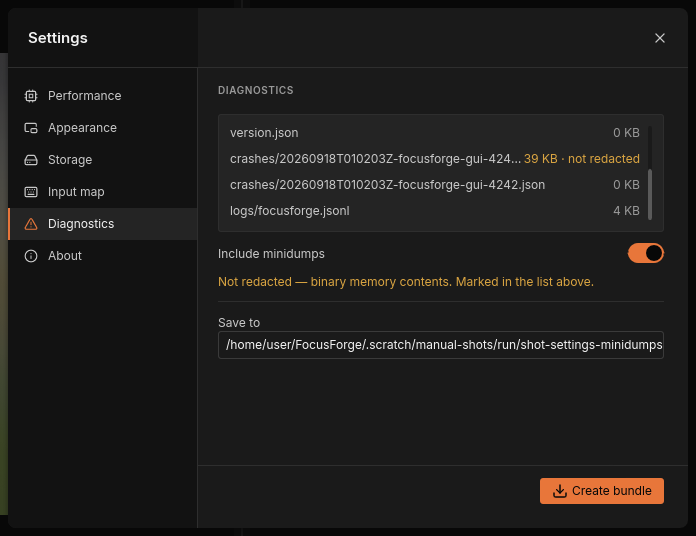
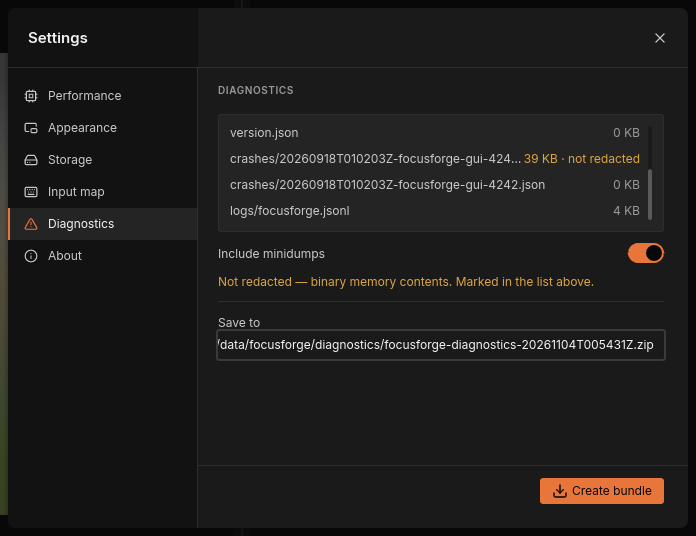
docs(manual): work in progress on the settings window and failure images

Changed region(s): [[0.3017, 0.597, 0.9655, 0.6866]]

diff --git a/tools/manual-examples.py b/tools/manual-examples.py
@@ -358,11 +358,13 @@ class Runner:
             raise SystemExit(f"focusforge-cli {args[0]} exited {result.returncode}")
         return result.stdout
 
-    def fuse(self, name: str, frames: list[tuple[int, int, int]], size: tuple[int, int], *flags: str) -> Fused:
+    def fuse(
+        self, name: str, frames: list[tuple[int, int, int]], size: tuple[int, int], *flags: str, source: str = FRAMES
+    ) -> Fused:
         """Cut `frames` into a fresh stack directory and fuse it.
 
-        Each frame is (fixture index, x, y): a `size` read starting at (x, y)
-        of `fixtures/mantis-512/frames/NN.tif`. Files keep the fixture's
+        Each frame is (index, x, y): a `size` read starting at (x, y) of
+        `<source>/NN.tif`, by default the fixture frames. Files keep that
         number, so a thinned stack still names its frames by focus position.
         A name already fused in this run is reused.
         """
@@ -376,9 +378,9 @@ class Runner:
         os.makedirs(out_dir)
         w, h = size
         for index, x, y in frames:
-            source = os.path.join(FRAMES, f"{index:02d}.tif")
-            info = rawtiff.read_info(source)
-            pixels = rawtiff.read_rect(source, x, y, w, h, info)
+            path = os.path.join(source, f"{index:02d}.tif")
+            info = rawtiff.read_info(path)
+            pixels = rawtiff.read_rect(path, x, y, w, h, info)
             rawtiff.write_tiff(os.path.join(stack_dir, "frames", f"{index:02d}.tif"), w, h, pixels)
         report = json.loads(
             self.run("stack", stack_dir, "-o", out_dir, "--cpu", "--no-cache", "--no-progress", "--json", *flags)
@@ -389,7 +391,12 @@ class Runner:
         crop = report.get("crop") or {"x": 0, "y": 0}
         fused = Fused(os.path.join(out_dir, projects[0]), crop["x"], crop["y"])
         self.fused[name] = fused
-        print(f"  fused {name}: {len(frames)} frames, crop at {crop['x']},{crop['y']}")
+        align = report.get("align") or {}
+        fallback = [a["name"] for a in align.get("alignments", []) if a.get("fallback")]
+        print(
+            f"  fused {name}: {len(frames)} frames, crop at {crop['x']},{crop['y']}"
+            + (f", not registered: {' '.join(fallback)}" if fallback else "")
+        )
         return fused
 
     def composite(self, fused: Fused, project: str | None = None) -> Image:
@@ -398,11 +405,15 @@ class Runner:
         self.run("export", project, "-o", path, "--exif", "off", "--icc", "off")
         return read_tiff8(path)
 
-    def frame(self, fused: Fused, position: int) -> Image:
-        """Source frame `position` (0-based, in the stack's order) as fused."""
-        path = fused.project[:-4] + f"-frame{position:02d}.tif"
+    def frame_tiff(self, fused: Fused, position: int, path: str | None = None) -> str:
+        """Writes source frame `position` (0-based, in the stack's order) as
+        fused: warped and cropped to the composite. Returns the TIFF's path."""
+        path = path or fused.project[:-4] + f"-frame{position:02d}.tif"
         self.run("export", fused.project, "--frame", str(position), "--frame-output", path)
-        return read_tiff8(path)
+        return path
+
+    def frame(self, fused: Fused, position: int) -> Image:
+        return read_tiff8(self.frame_tiff(fused, position))
 
     def zmap(self, fused: Fused) -> tuple[int, int, list[int]]:
         path = fused.project[:-4] + "-zmap.tif"
@@ -455,6 +466,7 @@ GREY = (205, 205, 205)
 
 ALL_FRAMES = [(i, 0, 0) for i in range(8)]
 FULL = (512, 512)
+MOVE_X, MOVE_Y = 20, 12
 DETAILS = ("--algorithm", "laplacian")
 
 
@@ -501,16 +513,35 @@ def halos(r: Runner, emit) -> None:
 
 
 def motion(r: Runner, emit) -> None:
-    # Simulated camera movement: frames 03-07 are read 12 px right and 8 px down
-    # of frames 00-02, so their content sits 12 px left and 8 px up. Fused once
-    # with alignment off (the movement shows) and once with the default
-    # alignment (it is corrected). Window in frame 03's pixels.
-    shifted = [(i, 16, 16) for i in range(3)] + [(i, 28, 24) for i in range(3, 8)]
-    size = (480, 480)
-    unaligned = r.fuse("motion-unaligned", shifted, size, *DETAILS, "--no-align")
-    aligned = r.fuse("motion-aligned", shifted, size, *DETAILS)
-    window = (120, 90, 256, 256)
-    panels = [r.composite(f).crop(*in_reference(f, *window)) for f in (unaligned, aligned)]
+    # Simulated camera movement between frames 02 and 03: frames 03-07 are
+    # read MOVE_X px right and MOVE_Y px down of frames 00-02, so their
+    # content sits that far left and up.
+    #
+    # Left panel: the movement alone. The frames are first lined up by the
+    # default stack (exported with `--frame`), then moved, then fused with
+    # alignment off.
+    # Right panel: the same movement on the fixture frames, fused with
+    # alignment on in its translation-only mode. (In its default
+    # rotation-and-scale mode the solver does not register frame 02 onto
+    # frame 03 in this small, mostly featureless window and falls back to
+    # identity.)
+    #
+    # The window is given in the default stack's composite pixels and mapped
+    # into each result through the reads above, so both panels show one scene.
+    base = r.fuse("all-details", ALL_FRAMES, FULL, *DETAILS)
+    lined_up = os.path.join(r.work, "motion-lined-up")
+    os.makedirs(lined_up, exist_ok=True)
+    for i in range(8):
+        r.frame_tiff(base, i, os.path.join(lined_up, f"{i:02d}.tif"))
+    moved = [(i, 2, 2) for i in range(3)] + [(i, 2 + MOVE_X, 2 + MOVE_Y) for i in range(3, 8)]
+    simulated = r.fuse("motion-unaligned", moved, (336, 336), *DETAILS, "--no-align", source=lined_up)
+    moved = [(i, 4, 4) for i in range(3)] + [(i, 4 + MOVE_X, 4 + MOVE_Y) for i in range(3, 8)]
+    realigned = r.fuse("motion-aligned", moved, (480, 480), *DETAILS, "--align-set", "mode=translation")
+    x, y, w, h = 55, 20, 240, 240
+    # Frame 03's pixel (x, y) of the lined-up frames, in each stack's reference.
+    left = in_reference(simulated, x - 2 - MOVE_X, y - 2 - MOVE_Y, w, h)
+    right = in_reference(realigned, x + base.crop_x - 4 - MOVE_X, y + base.crop_y - 4 - MOVE_Y, w, h)
+    panels = [r.composite(simulated).crop(*left), r.composite(realigned).crop(*right)]
     emit("failure-images/motion.jpg", side_by_side(panels))
 
 

diff --git a/docs/stacking/failure-images.md b/docs/stacking/failure-images.md
@@ -22,7 +22,16 @@ order, taken from a series of a praying mantis's head. The
 
 ## Halos at depth edges
 
-HALO_IMAGE
+![Three crops of the same window side by side: an antenna against a dark grey background, above the pale rim of the mantis's head. Left: clean edges. Middle: a dark band along the rim of the head and a softer antenna. Right: dark blotches beside the antenna and along the rim, and patches in the smooth areas.](../assets/manual/failure-images/halo-methods.jpg)
+
+*The same eight frames fused with default settings by each method. Left: Details. Middle: Soft transitions, with a dark band along the rim. Right: Focus map, with dark blotches beside the antenna and the rim.*
+
+A second, quieter form of the same problem sits where the antenna, close to
+the camera, crosses the rim of the head, further back:
+
+![Two enlarged crops side by side of the antenna crossing the rim of the head. Left: the rim runs across the antenna as a sharp line, and the antenna there is soft, with a pale glow beside it. Right: the antenna continues unbroken in front of the rim.](../assets/manual/failure-images/halo-retouch.jpg)
+
+*Enlarged 2×. Left: the Details composite, where the sharp rim from frame 03 wins over the antenna in front of it. Right: the same composite after one brush stroke from frame 02 along the antenna.*
 
 ### What you see
 
@@ -41,9 +50,20 @@ edge there is therefore no frame in which the background is both sharp and
 free of the foreground's blur. The fusion method has to choose between
 blurred versions, and a broad, soft edge can score as "detail" too.
 
-The methods handle this differently. A method that picks one frame per area
-keeps the strip next to the edge from a single frame; a method that blends
-mixes the soft spread of several frames into it.
+The fusion methods handle this differently, as the first example shows.
+**Details** works scale by scale and kept the cleanest edges here.
+**Soft transitions** blends every frame at every pixel, so the soft spread
+of the out-of-focus frames is mixed into the strip beside the edge: here a
+dark band along the rim. **Focus map** picks one frame per area from a
+smoothed sharpness map; next to the edges, and in smooth areas where no frame
+has real detail, it switched between frames whose blur differs in brightness,
+which leaves dark blotches and patches.
+
+The second example is the same conflict the other way round. Where the
+antenna, close to the camera, crosses the rim of the head, the rim is the
+crisper of the two, and its sharp line wins even where the antenna should
+cover it. The near object then looks transparent, with the far edge drawn
+across it.
 
 ### How to avoid it when shooting
 
@@ -57,17 +77,23 @@ mixes the soft spread of several frames into it.
 
 ### How to repair it
 
-1. Fuse again with another fusion method and compare. The **Algorithm**
-   picker in the dock's **FUSE** settings offers **Details**,
+1. Fuse again with another fusion method and compare at 100 %. The
+   **Algorithm** picker in the dock's **FUSE** settings offers **Details**,
    **Soft transitions** and **Focus map**; see
-   [Stacking settings](../guide/stacking.md).
-2. Retouch what remains: in the editor, pick a frame in which the
-   background next to the edge looks clean and paint it in with the brush.
+   [Stacking settings](../guide/stacking.md). Which one is best depends on
+   the scene, so try more than one on a stack that shows halos.
+2. Retouch what remains: in the editor, choose the frame that shows the area
+   the way it should look and paint it in with the brush. For a halo that is
+   a frame in which the background beside the edge looks clean; for a near
+   object with a far edge drawn across it, the frame in which the near object
+   is sharp. The second example above needed a single stroke from frame 02.
    See [Retouching](../guide/retouch.md).
 
 ## Motion between frames
 
-MOTION_IMAGE
+![Two crops of the same window side by side: the antenna and the rim of the head. Left: the sharp upper part of the antenna is offset to the right of a soft copy of itself and no longer meets its lower part. Right: the antenna runs in one piece across the rim.](../assets/manual/failure-images/motion.jpg)
+
+*Simulated camera movement: frames 03 to 07 moved 20 pixels sideways and 12 vertically against frames 00 to 02. Left: fused with alignment off. Right: fused with alignment on (**Mode** set to **Translation only**), which puts the frames back in register.*
 
 ### What you see
 
@@ -101,8 +127,15 @@ series or calm moments. All of this is covered in
 - **Camera movement:** alignment repairs it. It is on by default: FocusForge
   registers every frame onto a reference frame, shifting, rotating and
   scaling it as needed, and crops the result to the area every frame covers.
-  See [Alignment](../guide/alignment.md), which also explains how to see
-  which frames registered and which did not.
+  When it cannot register a frame, it fuses that frame as it is, and the
+  window asks **Keep this fused result?**, naming the frames that "could not
+  be aligned". Look at the result before you choose **Keep** or **Discard**.
+  See [Alignment](../guide/alignment.md).
+- If a frame does not register, open **More...** in the **ALIGN** settings
+  and set **Mode** to **Translation only**, which corrects shifts but not rotation or scale and
+  copes better with frames that hold little detail. In the example above, the
+  default **Rotation + Scale** could not register frame 02 onto frame 03,
+  because most of that small window is plain blur; **Translation only** could.
 - **Subject movement:** alignment cannot help, because it moves whole frames
   and the rest of the scene did not move. Instead:
   1. Find the frames in which the subject moved: select them one after the
@@ -117,7 +150,14 @@ series or calm moments. All of this is covered in
 
 ## Focus gaps
 
-GAP_IMAGE
+![Two crops of the same window side by side: the antenna above the rim of the head. Left: the antenna is sharp, segment by segment. Right: the antenna is a soft, featureless band; the rim of the head is still sharp.](../assets/manual/failure-images/focus-gap.jpg)
+
+*Left: all eight frames. Right: the same stack without frame 02, the only frame with the antenna in focus, so the step from frame 01 to frame 03 is twice as large. Alignment is off for both, so the two crops match pixel for pixel.*
+
+> **Note:** The sample stack itself is a thinned series: it keeps only every
+> eighth or ninth of the 61 frames the photographer took. That is why, in
+> every example on these pages, the face of the mantis below the rim stays
+> soft: the frames that held it sharp are not in the sample.
 
 ### What you see
 
